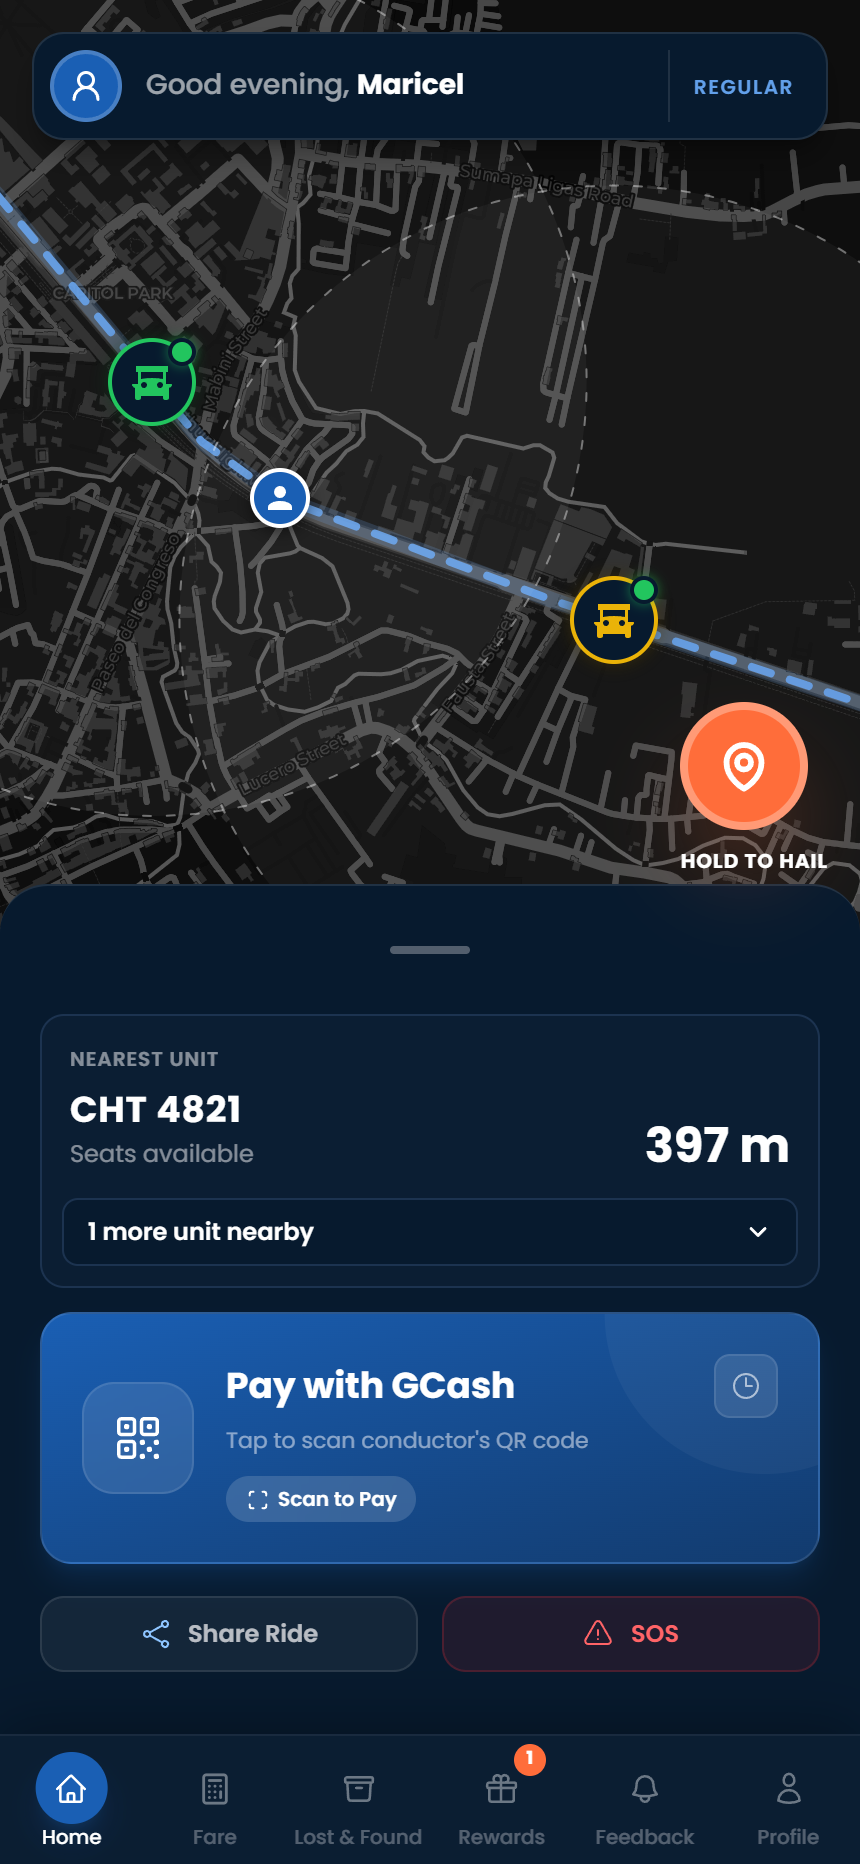
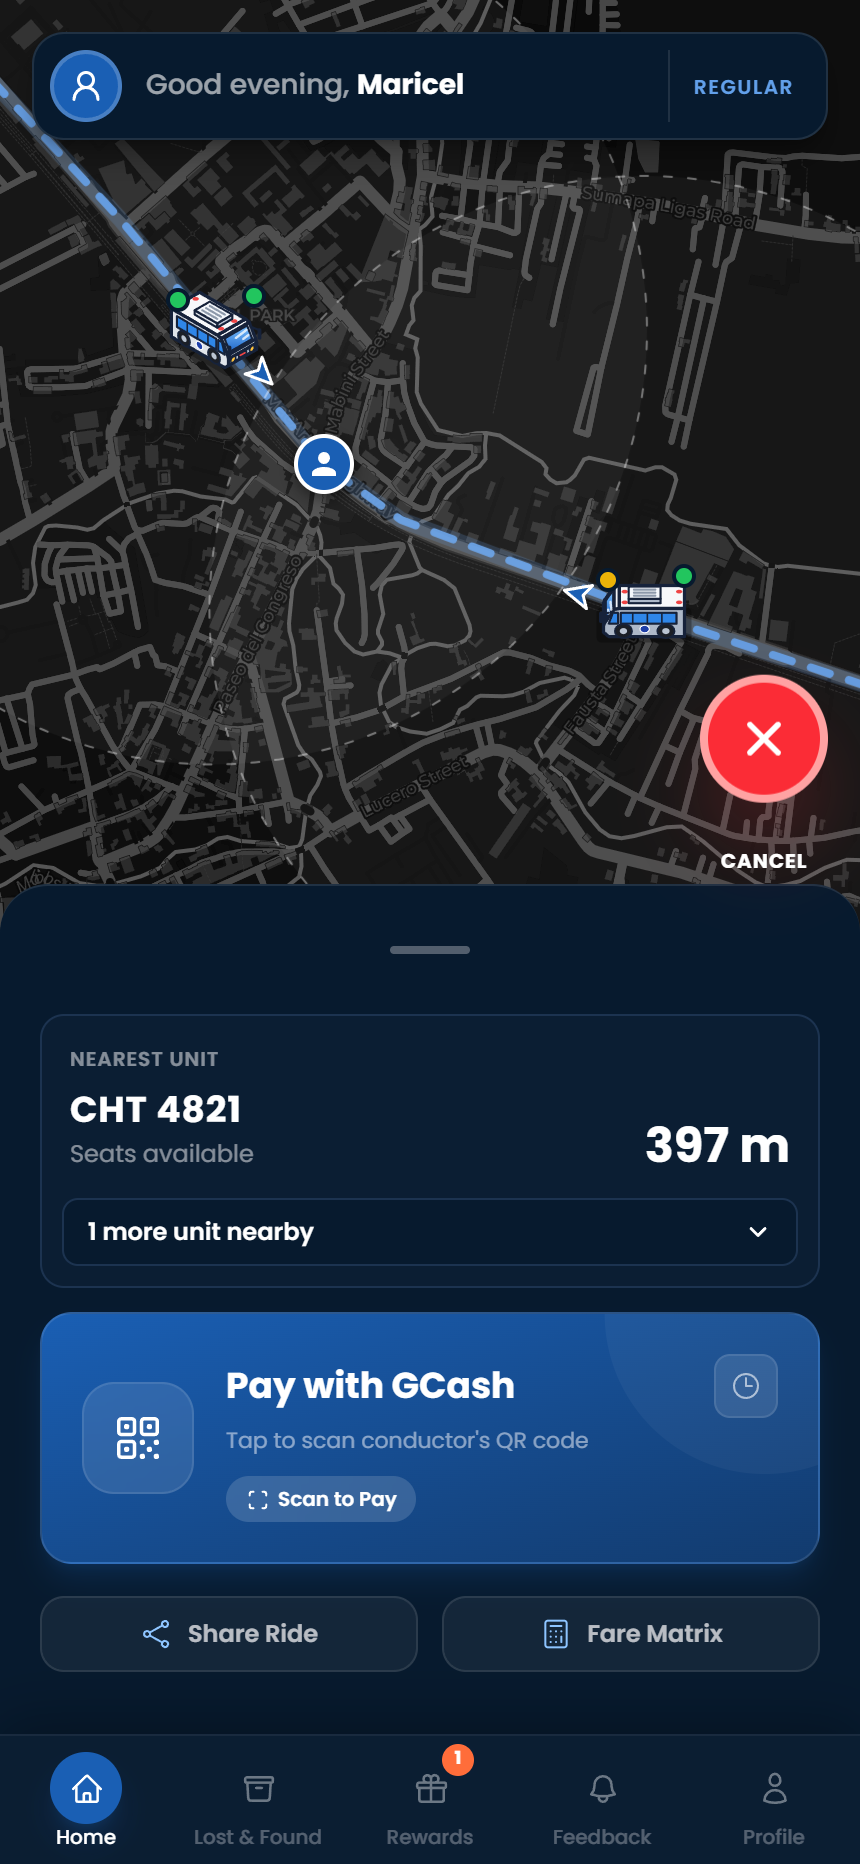
style(landing): refresh feature screenshots to the current commuter ui
- Recapture the six phone screens (tracking, hail, fare, share, gcash,
  rewards) from the current app: 5-tab nav, direction bus markers,
  Fare Matrix sheet, generate-link share flow, GCash return screen.
- Update alt text to match, and say "press and hold" for Pick Me Up
  since hailing is now hold-to-send.

diff --git a/frontend/components/landing/CommuterFeatures.tsx b/frontend/components/landing/CommuterFeatures.tsx
@@ -22,25 +22,25 @@ const FEATURES: Feature[] = [
     title: "GCash Cashless Payment",
     desc: "Scan the conductor's QR and pay your fare through GCash. No cash, no waiting for change.",
     shot: gcashShot,
-    alt: "Commuter app showing a GCash fare payment claimed for the Malolos Crossing to Meycauayan Bayan route",
+    alt: "Commuter app confirming a successful GCash fare payment with its reference number",
   },
   {
     title: "Live GPS Tracking",
     desc: "See nearby jeepneys on the map when they're within 1km. Get a sound alert when one approaches.",
     shot: trackingShot,
-    alt: "Commuter app map showing nearby jeepneys on the route and the closest unit about one minute away",
+    alt: "Commuter app map showing two jeepneys on the route, the nearest 397 m away with seats available",
   },
   {
     title: "Point-Area Fare Calculator",
     desc: "Fares based on 34 official CHATCO stop points — same rates whether you pay GCash or cash.",
     shot: fareShot,
-    alt: "Commuter app fare calculator with a pickup and drop-off point selected and the fare shown",
+    alt: "Commuter app fare calculator with Calumpit Crossing to BSU Xentromall selected and the fare shown",
   },
   {
     title: "Pick Me Up Signal",
-    desc: "Waiting in the dark or rain? Tap to send an alert straight to the conductor.",
+    desc: "Waiting in the dark or rain? Press and hold to send an alert straight to the conductor.",
     shot: hailShot,
-    alt: "Commuter app map with a jeepney nearby and the Hold to Hail button being pressed",
+    alt: "Commuter app map with a hail sent to the nearest jeepney and a Cancel button to withdraw it",
   },
   {
     title: "Share My Ride",
